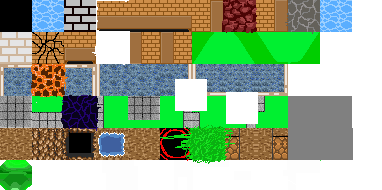
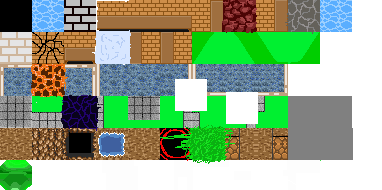
壁の当たり判定

Changed region(s): [[0.2304, 0.1579, 0.3455, 0.3421]]

diff --git a/Personal/Kimura/Map/Map.cpp b/Personal/Kimura/Map/Map.cpp
@@ -15,6 +15,8 @@ namespace {
 	// CSVファイルパス（worldid / stageIidで変化）
 	const char* const kMapCsv = "Resource\\Map%d_%d.csv";
 
+	constexpr Vector3 kBoxSize = { 20,20,0 };
+	constexpr int kBlockSize = 40;
 }
 
 Map::Map():
@@ -81,23 +83,23 @@ void Map::Draw()
 		}
 
 	}
-	//for (int y = 0; y < m_mapBlockNumY; y++)
-	//{
-	//	for (int x = 0; x < m_mapBlockNumX; x++)
-	//	{
-	//		if (IsWall(x, y))
-	//		{
-	//			DrawBox(
-	//				x * kMapBlockSize,
-	//				y * kMapBlockSize,
-	//				(x + 1) * kMapBlockSize,
-	//				(y + 1) * kMapBlockSize,
-	//				GetColor(255, 0, 0), // 赤
-	//				FALSE
-	//			);
-	//		}
-	//	}
-	//}
+	for (int y = 0; y < m_mapBlockNumY; y++)
+	{
+		for (int x = 0; x < m_mapBlockNumX; x++)
+		{
+			if (IsWall(x, y))
+			{
+				DrawBox(
+					x * kMapBlockSize,
+					y * kMapBlockSize,
+					(x + 1) * kMapBlockSize,
+					(y + 1) * kMapBlockSize,
+					GetColor(255, 0, 0), // 赤
+					FALSE
+				);
+			}
+		}
+	}
 }
 
 void Map::Finalize()
@@ -175,107 +177,109 @@ bool Map::IsWallByWorld(float worldX, float worldY) {
 
 }
 
+// 円形コライダーが壁に当たっているか判定
 bool Map::IsWallCircle(const Collision::Circle& circle)
 {
+	// 円の中心位置を取得
     Vector3 pos = circle.GetPosition();
+	// 半径を取得
     float r = circle.GetRadius();
 
+	// 円がカバーする範囲を「マップ座標」に変換
     int left   = (pos.x - r) / kMapBlockSize;
     int right  = (pos.x + r) / kMapBlockSize;
     int top    = (pos.y - r) / kMapBlockSize;
     int bottom = (pos.y + r) / kMapBlockSize;
-
+	// 範囲内のマスを総当たりでチェック
     for (int y = top; y <= bottom; y++)
     {
         for (int x = left; x <= right; x++)
         {
+			// 1マスでも壁があれば衝突扱い
             if (IsWall(x, y))
             {
                 return true;
             }
         }
     }
-
+	// 壁がなければ通過可能
     return false;
 }
 
+// 矩形（AABB）が壁に当たっているか判定
 bool Map::IsWallAABB(const Collision::AABB& box)
 {
+	// AABBの最小・最大座標（左下・右上）を取得
 	Vector3 min = box.GetMinPos();
 	Vector3 max = box.GetMaxPos();
-
+	// マップ座標に変換
 	int left = min.x / kMapBlockSize;
 	int right = max.x / kMapBlockSize;
 	int top = min.y / kMapBlockSize;
 	int bottom = max.y / kMapBlockSize;
 
+	// 範囲内のマスを総当たりでチェック
 	for (int y = top; y <= bottom; y++)
 	{
 		for (int x = left; x <= right; x++)
 		{
+			// 1マスでも壁があれば衝突扱い
 			if (IsWall(x, y))
 			{
 				return true;
 			}
 		}
 	}
-
+	// 壁がなければ通過可能
 	return false;
 }
-/*
+
+// 形状（円 or AABB）に応じて壁判定を振り分ける
 bool Map::IsWallShape(const Collision::Shape& shape)
 {
-	if (shape.GetType() == Collision::Type::Circle)
+	/*
+	//// shapeが円だった場合
+	//if (const Collision::Circle* c = dynamic_cast<const Collision::Circle*>(&shape))
+	//{
+	//	return IsWallCircle(*c);
+	//}
+	//// shapeがAABBだった場合
+	//if (const Collision::AABB* b = dynamic_cast<const Collision::AABB*>(&shape))
+	//{
+	//	return IsWallAABB(*b);
+	//}
+	//// どちらでもない形状はとりあえず非衝突扱い
+	//return false;
+	*/
+	Collision::AABB box = Collision::AABB(Vector3(), kBoxSize);
+	Vector3 centerPos;
+	// 範囲内のマスを総当たりでチェック
+	for (int y = 0; y <= 250; y++)
 	{
-		const Collision::Circle* c = dynamic_cast<const Collision::Circle*>(&shape);
-		return IsWallCircle(*c);
+		for (int x = 0; x <= 250; x++)
+		{
+			// 1マスでも壁があれば衝突扱い
+			if (IsWall(x, y))
+			{
+			centerPos = { kBlockSize * (x + 0.5f), kBlockSize * (y + 0.5f),0 };
+			box.SetPosition(centerPos);
+			if (box.CheckCollision(shape)) 
+			{
+				return true;
+			}
+			}
+		}
 	}
-	else if (shape.GetType() == Collision::Type::AABB)
-	{
-		const Collision::AABB* b = dynamic_cast<const Collision::AABB*>(&shape);
-		return IsWallAABB(*b);
-	}
-
+	// 壁がなければ通過可能
 	return false;
 }
-*/
 
-bool Map::IsWallShape(const Collision::Shape& shape)
+// この形状が移動可能かどうか判定する
+bool Map::CanMove(const Collision::Shape& shape)
 {
-	if (const Collision::Circle* c = dynamic_cast<const Collision::Circle*>(&shape))
-	{
-		return IsWallCircle(*c);
-	}
-
-	if (const Collision::AABB* b = dynamic_cast<const Collision::AABB*>(&shape))
-	{
-		return IsWallAABB(*b);
-	}
-
-	return false;
+	// 壁に当たっていない = 移動可能
+	return !IsWallShape(shape);
 }
-
-//void Map::DebugDrawRect(float left, float top, float right, float bottom)
-//{
-//	for (int y = 0; y < m_mapBlockNumY; y++)
-//	{
-//		for (int x = 0; x < m_mapBlockNumX; x++)
-//		{
-//			// 壁だけ矩形表示
-//			if (IsWall(x, y))
-//			{
-//				DrawBox(
-//					x * kMapBlockSize,
-//					y * kMapBlockSize,
-//					(x + 1) * kMapBlockSize,
-//					(y + 1) * kMapBlockSize,
-//					GetColor(255, 0, 0), // 赤（壁）
-//					FALSE
-//				);
-//			}
-//		}
-//	}
-//}
 
 //1行の文字列をカンマで分割する
 std::vector<std::string>Map::Split(const std::string& str, char separate) {

diff --git a/Personal/Kimura/Map/Map.h b/Personal/Kimura/Map/Map.h
@@ -61,9 +61,9 @@ public:
 	bool IsWallAABB(const Collision::AABB& box);
 
 	bool IsWallShape(const Collision::Shape& shape);
-	//
-	//void DebugDrawRect(float left, float top, float right, float bottom);
 
+	bool CanMove(const Collision::Shape& shape);
+	
 	std::vector<std::string>Split(const std::string& str, char separate);
 
 private:
@@ -83,6 +83,5 @@ private:
 	int m_worldid;          //読み込むマップのワールドID
 	int m_stageid;          //読み込むマップのステージID
 
-	Vector3 m_prevPlayerPos;
 
 };
